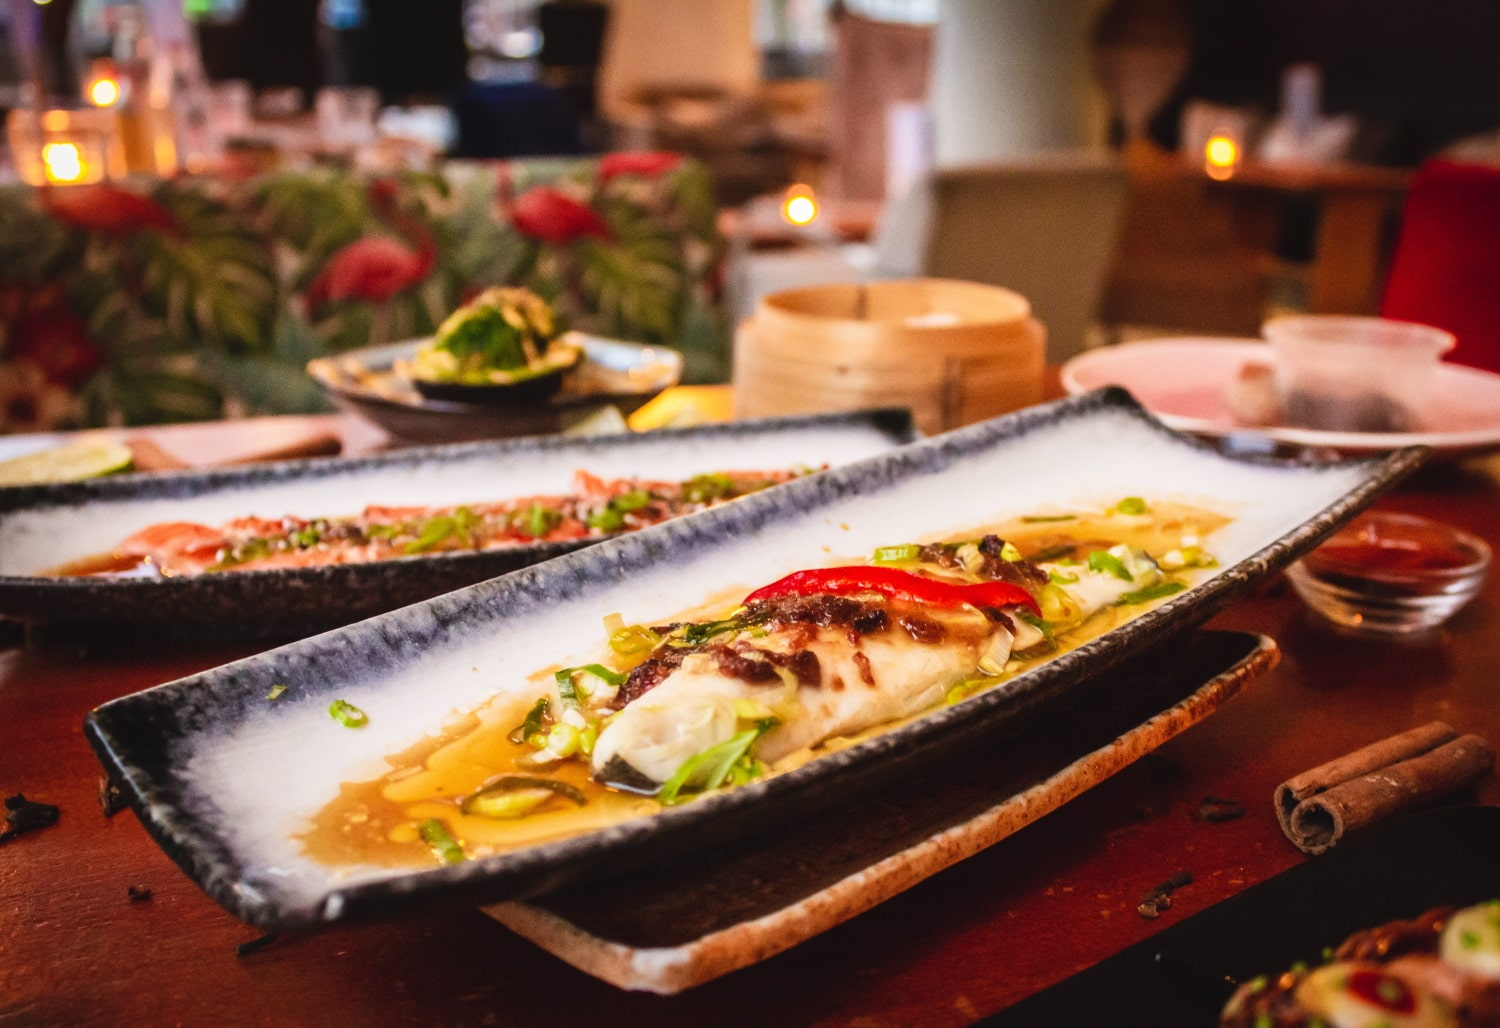
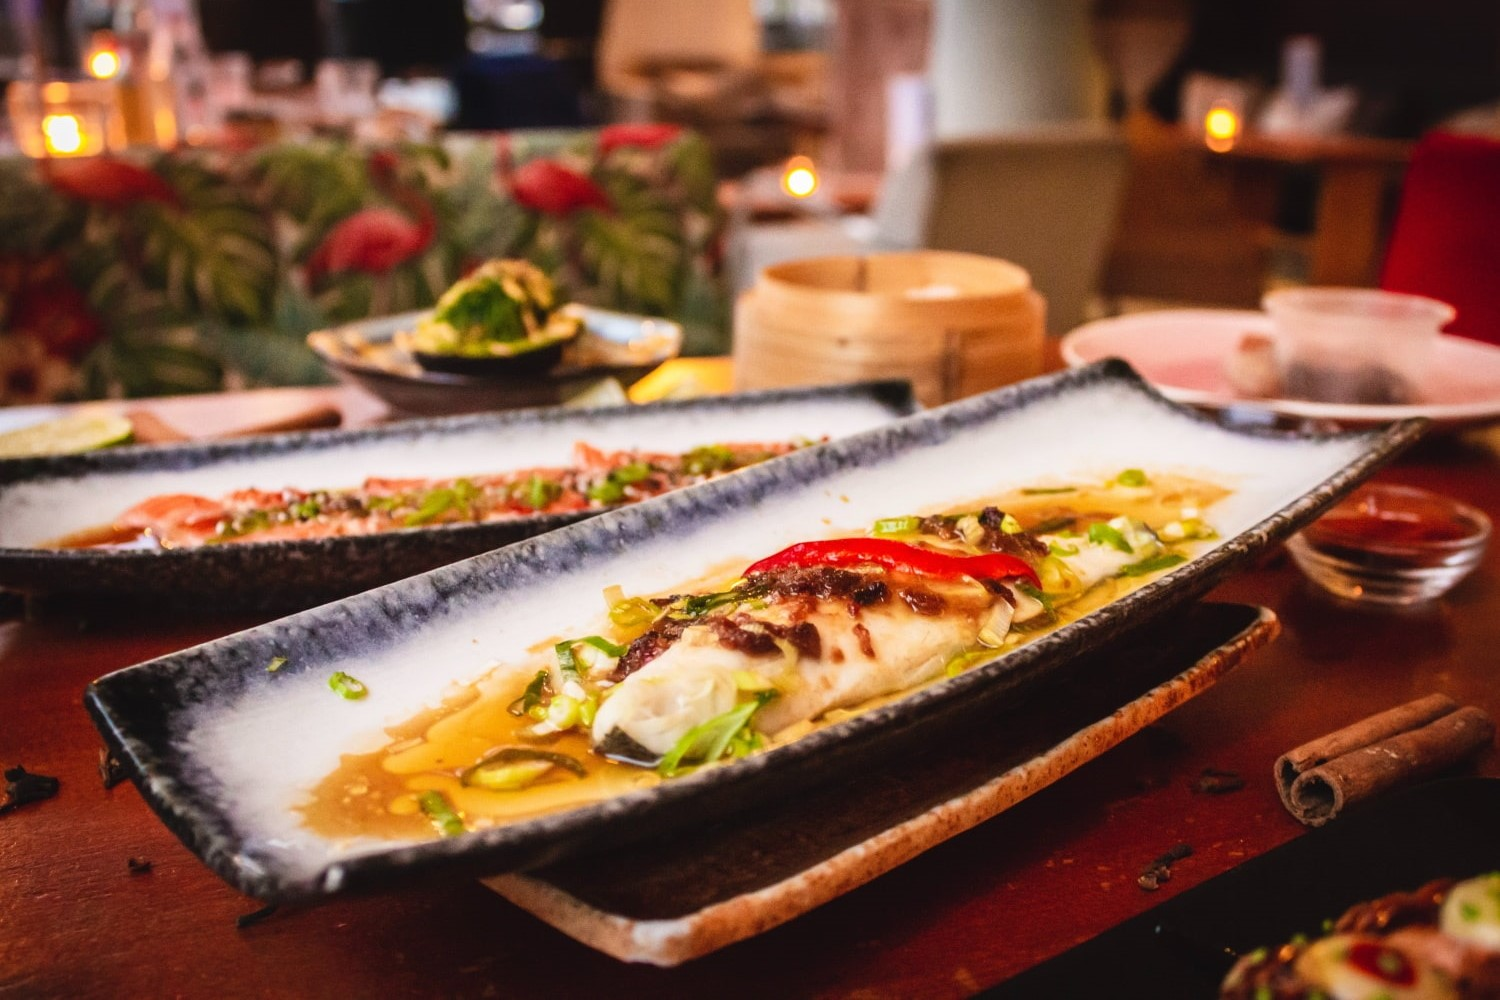
index images responsive to always see plate

diff --git a/css/styles.css b/css/styles.css
@@ -271,7 +271,7 @@ header a {
   font-size: 12pt;
 }
 
-@media only screen and (min-width: 700px) {
+@media only screen and (min-width: 650px) {
   .footer {
     padding: 1.8rem;
   }
@@ -421,7 +421,7 @@ header a {
   align-items: stretch;
   gap: 1.5rem;
 }
-@media only screen and (min-width: 700px) {
+@media only screen and (min-width: 650px) {
   .restaurants-list__group {
     display: flex;
     flex-direction: row;
@@ -444,7 +444,7 @@ header a {
 .restaurant-card:hover {
   box-shadow: 0 5px 10px #c3c3c3;
 }
-@media only screen and (min-width: 700px) {
+@media only screen and (min-width: 650px) {
   .restaurant-card {
     width: 50%;
   }
@@ -482,6 +482,28 @@ header a {
   bottom: 20px;
 }
 
+.restaurant-card__image img {
+  position: absolute;
+  bottom: 0;
+}
+@media only screen and (min-width: 500px) {
+  .restaurant-card__image img {
+    bottom: -30px;
+  }
+}
+@media only screen and (min-width: 650px) {
+  .restaurant-card__image img {
+    bottom: auto;
+    top: 0;
+  }
+}
+@media only screen and (min-width: 950px) {
+  .restaurant-card__image img {
+    top: auto;
+    bottom: -20px;
+  }
+}
+
 .menu-heading {
   position: relative;
   padding: 0;
@@ -506,7 +528,7 @@ header a {
 .menu-heading__title button {
   background-color: #F6F6F6;
 }
-@media only screen and (min-width: 700px) {
+@media only screen and (min-width: 650px) {
   .menu-heading__title {
     justify-content: flex-start;
     gap: 35px;
@@ -530,7 +552,7 @@ header a {
   font-weight: 300;
   text-transform: uppercase;
 }
-@media only screen and (min-width: 700px) {
+@media only screen and (min-width: 650px) {
   .menu-section {
     padding: 0 1.8rem 3rem 1.8rem;
   }

diff --git a/sass/layout/index/_tutorial.scss b/sass/layout/index/_tutorial.scss
@@ -7,7 +7,8 @@
         @include flex(column, center, stretch, 1.5rem);
         margin: 0;
         padding: 0 0 0 0.8rem;
-        // Large screens
+
+        // Large screens and above
         @media only screen and (min-width: $screen-lg) {
             @include flex(row, flex-start, center, 3rem);
         }
@@ -18,7 +19,8 @@
 .step {
     @include flex("", stretch, center);
     position: relative;
-    // Medium screens
+
+    // Large screens and above
     @media only screen and (min-width: $screen-lg) {
         width: 33%;
     }

diff --git a/sass/layout/index/_restaurants.scss b/sass/layout/index/_restaurants.scss
@@ -60,3 +60,23 @@
         bottom: 20px;
     }
 }
+
+// Photo positioning to see the plate with all screen sizes
+.restaurant-card__image img {
+    position: absolute;
+    bottom: 0;
+
+    @media only screen and (min-width: $screen-sm) {
+        bottom: -30px;
+    }
+
+    @media only screen and (min-width: $screen-md) {
+        bottom: auto;
+        top: 0;
+    }
+
+    @media only screen and (min-width: $screen-xl) {
+        top: auto;
+        bottom: -20px;
+    }
+}

diff --git a/sass/layout/menu/_menu.scss b/sass/layout/menu/_menu.scss
@@ -14,7 +14,7 @@
         padding: 0 $padding-x--md 3rem $padding-x--md;
     }
 
-    // Large screens
+    // Large screens and above
     @media only screen and (min-width: $screen-lg) {
         padding-left: $padding-x--lg;
         padding-right: $padding-x--lg;

diff --git a/sass/utils/_variables.scss b/sass/utils/_variables.scss
@@ -1,6 +1,8 @@
 // Breakpoints
-$screen-md: 700px;
+$screen-sm: 500px;
+$screen-md: 650px;
 $screen-lg: 800px;
+$screen-xl: 950px;
 
 // Sections horizontal padding
 $padding-x: 1.3rem;
